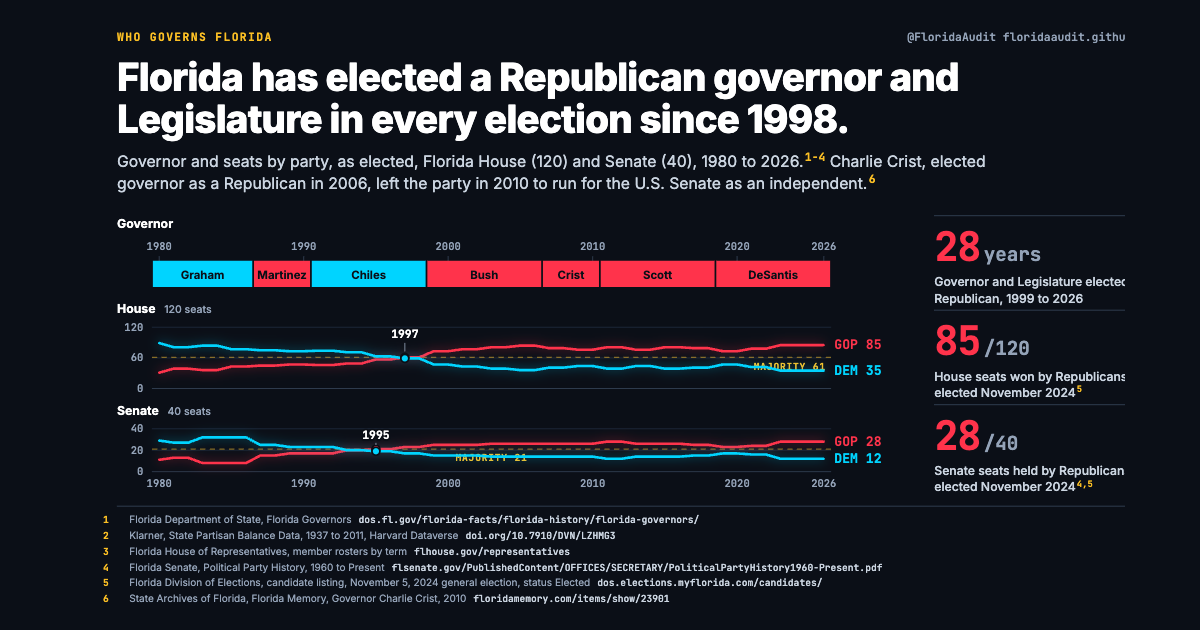
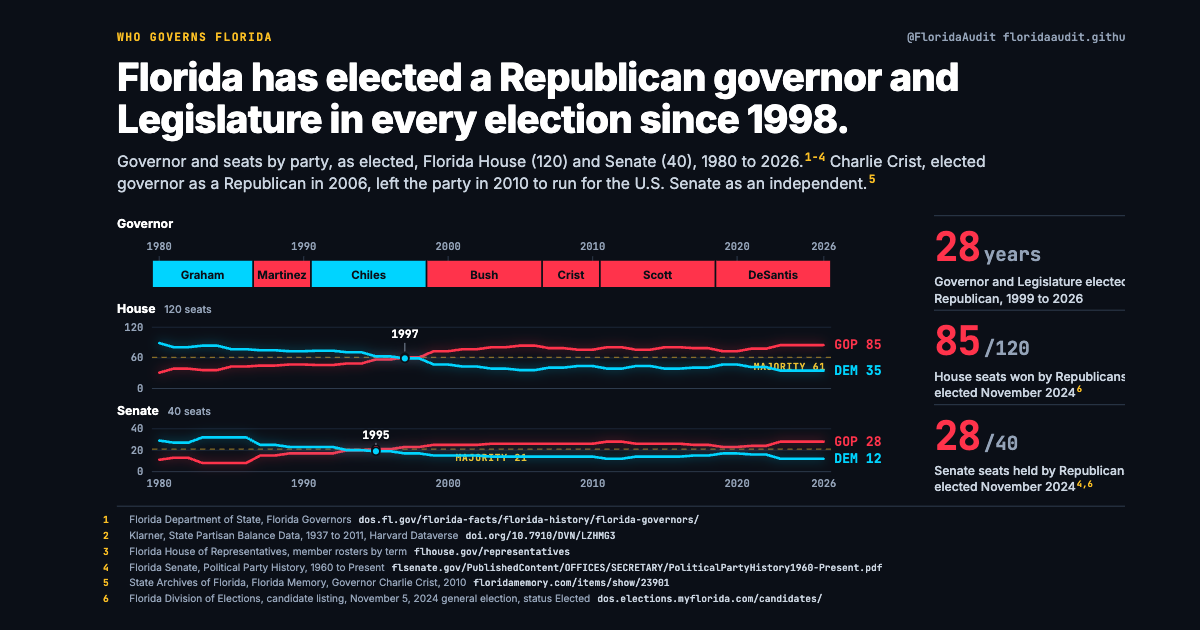
Footnotes renumbered in reading order on eight charts

Changed region(s): [[0.0925, 0.9048, 0.6783, 0.9651]]

diff --git a/c/who-governs/house-seats.html b/c/who-governs/house-seats.html
@@ -57,10 +57,10 @@
     }
   ],
   "citation": [
+    "Florida House of Representatives, Clerk's publication, The People of Lawmaking in Florida 1822 to 2024: the Republican leader is recorded as Minority Leader for 1996 and Speaker for 1997",
     "Klarner, State Partisan Balance Data, 1937 to 2011, Harvard Dataverse",
     "Florida House of Representatives, member rosters by term",
-    "Florida Division of Elections, candidate listing, November 5, 2024 general election, status Elected",
-    "Florida House of Representatives, Clerk's publication, The People of Lawmaking in Florida 1822 to 2024: the Republican leader is recorded as Minority Leader for 1996 and Speaker for 1997"
+    "Florida Division of Elections, candidate listing, November 5, 2024 general election, status Elected"
   ]
 }
   </script>
@@ -80,10 +80,10 @@
     <section class="sources">
       <h2>Sources</h2>
       <ol>
+        <li>Florida House of Representatives, Clerk's publication, The People of Lawmaking in Florida 1822 to 2024: the Republican leader is recorded as Minority Leader for 1996 and Speaker for 1997 <a href="https://www.flhouse.gov/api/document/house?listName=Clerks%20Publications&amp;amp;itemId=28&amp;amp;section=clerk">www.flhouse.gov/api/document/house?listName=Clerks%20Publications&amp;amp;itemId=28&amp;amp;sectio</a></li>
         <li>Klarner, State Partisan Balance Data, 1937 to 2011, Harvard Dataverse <a href="https://doi.org/10.7910/DVN/LZHMG3">doi.org/10.7910/DVN/LZHMG3</a></li>
         <li>Florida House of Representatives, member rosters by term <a href="https://www.flhouse.gov/representatives">www.flhouse.gov/representatives</a></li>
         <li>Florida Division of Elections, candidate listing, November 5, 2024 general election, status Elected <a href="https://dos.elections.myflorida.com/candidates/">dos.elections.myflorida.com/candidates/</a></li>
-        <li>Florida House of Representatives, Clerk's publication, The People of Lawmaking in Florida 1822 to 2024: the Republican leader is recorded as Minority Leader for 1996 and Speaker for 1997 <a href="https://www.flhouse.gov/api/document/house?listName=Clerks%20Publications&amp;amp;itemId=28&amp;amp;section=clerk">www.flhouse.gov/api/document/house?listName=Clerks%20Publications&amp;amp;itemId=28&amp;amp;sectio</a></li>
       </ol>
     </section>
     <p class="meta">Published 2026-09-27. Released into the public domain under <a href="https://creativecommons.org/publicdomain/zero/1.0/">CC0</a>. No attribution required.</p>

diff --git a/c/who-governs/one-party-control.html b/c/who-governs/one-party-control.html
@@ -61,8 +61,8 @@
     "Klarner, State Partisan Balance Data, 1937 to 2011, Harvard Dataverse",
     "Florida House of Representatives, member rosters by term",
     "Florida Senate, Political Party History, 1960 to Present",
-    "Florida Division of Elections, candidate listing, November 5, 2024 general election, status Elected",
-    "State Archives of Florida, Florida Memory, Governor Charlie Crist, 2010"
+    "State Archives of Florida, Florida Memory, Governor Charlie Crist, 2010",
+    "Florida Division of Elections, candidate listing, November 5, 2024 general election, status Elected"
   ]
 }
   </script>
@@ -91,8 +91,8 @@
         <li>Klarner, State Partisan Balance Data, 1937 to 2011, Harvard Dataverse <a href="https://doi.org/10.7910/DVN/LZHMG3">doi.org/10.7910/DVN/LZHMG3</a></li>
         <li>Florida House of Representatives, member rosters by term <a href="https://www.flhouse.gov/representatives">www.flhouse.gov/representatives</a></li>
         <li>Florida Senate, Political Party History, 1960 to Present <a href="https://www.flsenate.gov/PublishedContent/OFFICES/SECRETARY/PoliticalPartyHistory1960-Present.pdf">www.flsenate.gov/PublishedContent/OFFICES/SECRETARY/PoliticalPartyHistory1960-Present.pdf</a></li>
-        <li>Florida Division of Elections, candidate listing, November 5, 2024 general election, status Elected <a href="https://dos.elections.myflorida.com/candidates/">dos.elections.myflorida.com/candidates/</a></li>
         <li>State Archives of Florida, Florida Memory, Governor Charlie Crist, 2010 <a href="https://www.floridamemory.com/items/show/23901">www.floridamemory.com/items/show/23901</a></li>
+        <li>Florida Division of Elections, candidate listing, November 5, 2024 general election, status Elected <a href="https://dos.elections.myflorida.com/candidates/">dos.elections.myflorida.com/candidates/</a></li>
       </ol>
     </section>
     <p class="meta">Published 2026-09-27. Released into the public domain under <a href="https://creativecommons.org/publicdomain/zero/1.0/">CC0</a>. No attribution required.</p>

diff --git a/c/property-taxes/homestead-saving-per-house.html b/c/property-taxes/homestead-saving-per-house.html
@@ -58,8 +58,8 @@
   ],
   "citation": [
     "Pinellas County Property Appraiser, Amendment 3 FAQ and savings illustration",
-    "Florida Legislature, enrolled CS/HJR 1-F (2026)",
-    "Florida Department of Revenue, 2025 millage and taxes levied, and taxable value"
+    "Florida Department of Revenue, 2025 millage and taxes levied, and taxable value",
+    "Florida Legislature, enrolled CS/HJR 1-F (2026)"
   ]
 }
   </script>
@@ -84,8 +84,8 @@
       <h2>Sources</h2>
       <ol>
         <li>Pinellas County Property Appraiser, Amendment 3 FAQ and savings illustration <a href="https://www.pcpao.gov/amendment3">www.pcpao.gov/amendment3</a></li>
-        <li>Florida Legislature, enrolled CS/HJR 1-F (2026) <a href="https://www.flsenate.gov/Session/Bill/2026F/1F/BillText/er/PDF">www.flsenate.gov/Session/Bill/2026F/1F/BillText/er/PDF</a></li>
         <li>Florida Department of Revenue, 2025 millage and taxes levied, and taxable value <a href="https://floridarevenue.com/property/dataportal/Documents/PTO%20Data%20Portal/Databook%20Historical%20Data/2025DataBookFiles/millage_taxes_levied.xlsx">floridarevenue.com/property/dataportal/Documents/PTO%20Data%20Portal/Databook%20Historical</a></li>
+        <li>Florida Legislature, enrolled CS/HJR 1-F (2026) <a href="https://www.flsenate.gov/Session/Bill/2026F/1F/BillText/er/PDF">www.flsenate.gov/Session/Bill/2026F/1F/BillText/er/PDF</a></li>
       </ol>
     </section>
     <p class="meta">Published 2026-09-29. Released into the public domain under <a href="https://creativecommons.org/publicdomain/zero/1.0/">CC0</a>. No attribution required.</p>
